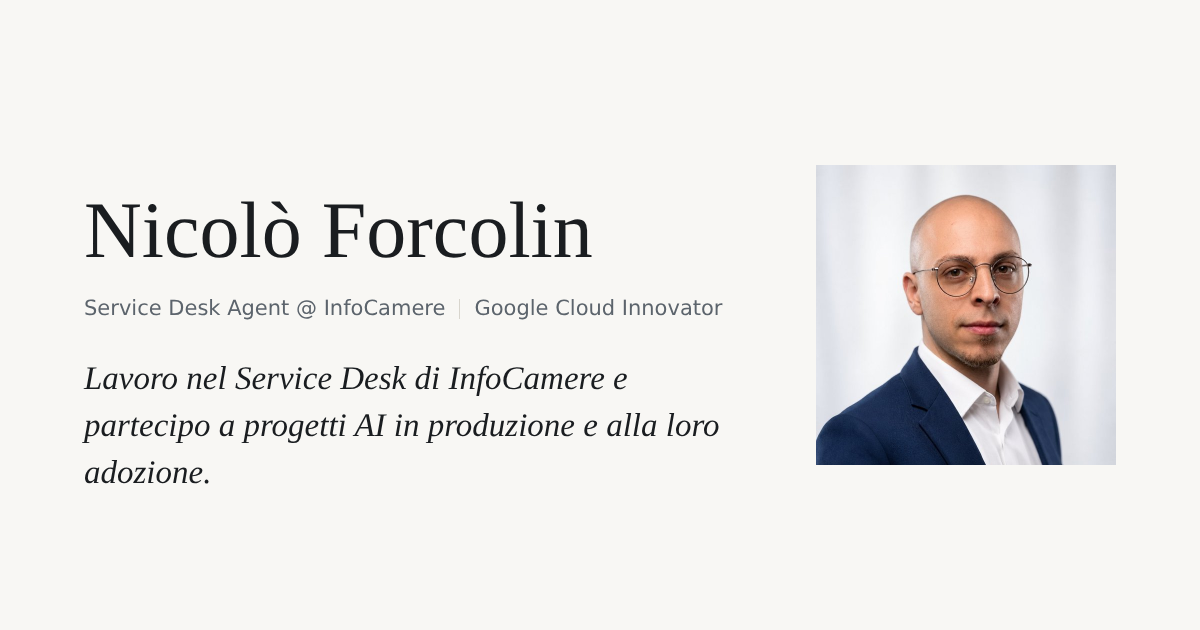
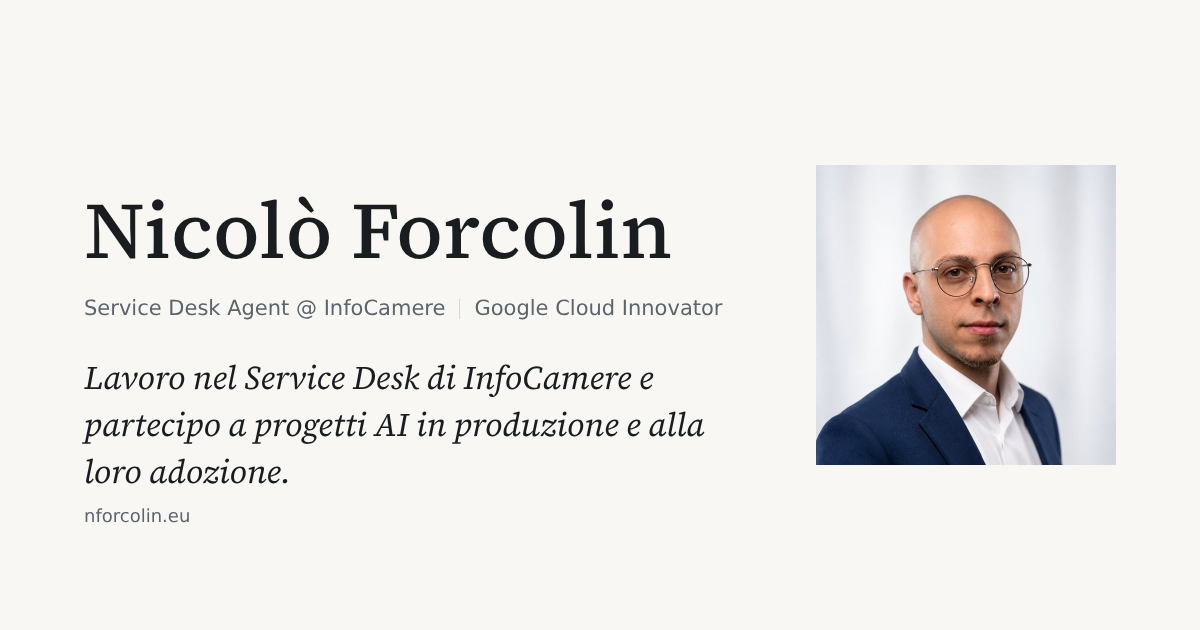
Etichette in italiano, og-image con Source Serif e footer (#270)

diff --git a/index.html b/index.html
@@ -94,7 +94,7 @@
         <a href="#casi-studio" data-i18n="sec_work_title">Progetto in produzione</a>
         <a href="#adozione" data-i18n="sec_adoption_title">AI in produzione e adozione</a>
         <a href="#sintesi" data-i18n="sec_results_title">Risultati</a>
-        <a href="#local-ai" data-i18n="sec_localai_title">Local AI</a>
+        <a href="#local-ai" data-i18n="sec_localai_title">AI in locale</a>
         <a href="#percorso" data-i18n="sec_path_title">Percorso</a>
         <a href="#esperienze" data-i18n="sec_experiences">Iniziative</a>
         <a href="#badge" data-i18n="sec_badge">Credenziali</a>
@@ -145,8 +145,8 @@
   <h2 class="section-label rv" id="casi-studio"><span data-i18n="sec_work_title">Progetto in produzione</span></h2>
   <div class="work-grid rv">
     <div class="work-card">
-      <span class="work-meta live" data-i18n="c1_status">Production · 2026</span>
-      <h3 class="work-title" id="case-rag" data-i18n="case1_title">Enterprise Knowledge Retrieval</h3>
+      <span class="work-meta live" data-i18n="c1_status">In produzione · 2026</span>
+      <h3 class="work-title" id="case-rag" data-i18n="case1_title">Ricerca nella conoscenza aziendale</h3>
       <p class="case-block-label" data-i18n="case_impact_label">Impatto</p>
       <p class="work-context" data-i18n="c1_impact">Documentazione aziendale e storico Jira si consultavano separatamente. Con i due RAG e la loro unificazione, ricostruire il contesto di una richiesta operativa è più semplice.</p>
       <p class="work-summary" data-i18n="c1_summary">Da un'idea sviluppata insieme al mio Responsabile, ho realizzato due sistemi RAG in produzione per la documentazione aziendale e lo storico Jira. Li ho poi unificati in un progetto più ampio, integrando ulteriori fonti di diversa provenienza.</p>
@@ -193,7 +193,7 @@
             <section class="case-block" aria-labelledby="c1-focus">
               <h4 class="case-block-label" id="c1-focus" tabindex="-1" data-i18n="case_focus_label">Focus</h4>
   <div class="metarow">
-    <span class="metachip">Enterprise AI</span>
+    <span class="metachip">AI aziendale</span>
     <span class="metachip">RAG</span>
     <span class="metachip">Systems Integration</span>
     <span class="metachip">Knowledge Management</span>
@@ -203,7 +203,7 @@
             <nav class="related-reading" aria-label="Contenuti collegati" data-i18n-aria="related_label">
               <p class="case-block-label" data-i18n="related_label">Contenuti collegati</p>
               <a href="#adozione" data-i18n="sec_adoption_title">AI in produzione e adozione</a>
-              <a href="#local-ai" data-i18n="sec_localai_title">Local AI</a>
+              <a href="#local-ai" data-i18n="sec_localai_title">AI in locale</a>
             </nav>
             <button class="work-link reader-close" type="button" data-reader-close="c1Details" data-i18n="work_close">Chiudi il progetto</button>
           </div>
@@ -232,7 +232,7 @@
     </div>
     <div class="stat" aria-labelledby="p1k">
       <p class="v"><span>2+1</span></p>
-      <span class="k" id="p1k" data-i18n="stat2_label">AI Advisory</span>
+      <span class="k" id="p1k" data-i18n="stat2_label">Consulenza AI</span>
       <p class="d" data-i18n="stat2_desc">Advisory AI per due business unit interne e un CEO.</p>
       <a class="lnk" href="#percorso" data-i18n="stat2_link">Vedi il percorso</a>
     </div>
@@ -244,17 +244,17 @@
     </div>
   </div>
 
-  <h2 class="section-label rv" id="local-ai"><span data-i18n="sec_localai_title">Local AI</span></h2>
+  <h2 class="section-label rv" id="local-ai"><span data-i18n="sec_localai_title">AI in locale</span></h2>
   <div class="work-grid rv">
     <div class="work-card">
       <span class="work-meta explore" data-i18n="c2_status">Exploration · Mag – Giu 2026</span>
-      <h3 class="work-title" id="case-local" data-i18n="case2_title">Local AI for Sensitive Data Environments</h3>
+      <h3 class="work-title" id="case-local" data-i18n="case2_title">AI in locale per dati sensibili</h3>
       <p class="work-summary" data-i18n="c2_summary">Ho valutato l’AI su dati sensibili con modelli in locale, tra dataset, adattamenti e demo.</p>
 <div class="case-contribution"><p class="case-block-label" data-i18n="contribution_label">Il mio contributo</p><p class="work-summary" data-i18n="c2_contribution">Ho fatto il fine-tuning dei modelli, li ho portati in locale e ho costruito le demo.</p></div>
       <div class="work-chips">
-        <span class="metachip">Local AI</span>
+        <span class="metachip">AI in locale</span>
         <span class="metachip">Data Protection</span>
-        <span class="metachip">AI Governance</span>
+        <span class="metachip">Governance AI</span>
       </div>
       <p class="work-context" data-i18n="c2_map_prose">Le demo usano dataset controllati e modelli eseguiti su infrastruttura locale.</p>
       <div class="case-actions"><button class="work-link" type="button" data-copy-case="c2Details" data-i18n="copy_case">Copia link al progetto</button><span class="copy-feedback" role="status" aria-live="polite"></span></div>
@@ -286,7 +286,7 @@
     <span class="metachip">Infrastructure control</span>
     <span class="metachip">Provider dependency</span>
     <span class="metachip">Operational costs</span>
-    <span class="metachip">AI governance</span>
+    <span class="metachip">Governance AI</span>
   </div>
 
             </section>
@@ -347,7 +347,7 @@
   <div class="experience-grid rv">
     <div class="experience-card">
       <div class="job-overline"><span data-i18n="date_dabo">2026</span><span class="education-tag" data-i18n="dabo_tag">Advisory esterna</span></div>
-      <div class="job-title" data-i18n="dabo_title">DABO · Advisory e candidatura internazionale</div>
+      <div class="job-title" data-i18n="dabo_title">DABO · Consulenza e candidatura internazionale</div>
       <div class="job-supp" data-i18n="dabo_desc">Ho fornito advisory al CEO di DABO su temi AI. Sono stato nel team SCWL a “Sprint Forward”, a Shangcheng, in Cina. Il team non è stato selezionato per la finale del 9 settembre.</div>
     </div>
     <div class="experience-card">
@@ -356,12 +356,12 @@
       <div class="job-supp" data-i18n="politica_desc">Partecipante all’edizione 2026 del programma di formazione politica di Italia Viva, su affari europei, istituzioni, economia, tecnologia e politiche pubbliche.</div>
     </div>
     <div class="experience-card">
-      <div class="job-overline"><span data-i18n="date_pizz">30 settembre 2026</span><span class="education-tag" data-i18n="pizz_tag">Networking</span></div>
+      <div class="job-overline"><span data-i18n="date_pizz">30 settembre 2026</span><span class="education-tag" data-i18n="pizz_tag">Rete professionale</span></div>
       <div class="job-title" data-i18n="pizz_title">Pizz'n'Meet, Padova</div>
       <div class="job-supp" data-i18n="pizz_desc">Serata di networking con professionisti di settori diversi: ci si presenta, si raccontano le proprie attività e si ascoltano esperienze lontane dalla propria. Guidata da una Pizz'n'Meet Ambassador. Sono tornato con nuovi contatti.</div>
     </div>
     <div class="experience-card">
-      <div class="job-overline"><span data-i18n="date_club">2026</span><span class="education-tag" data-i18n="club_tag">Community & affiliazioni</span></div>
+      <div class="job-overline"><span data-i18n="date_club">2026</span><span class="education-tag" data-i18n="club_tag">Community e affiliazioni</span></div>
       <div class="job-title"><a href="https://uominigentili.fimelato.com/club/" target="_blank" rel="noopener">Club degli Uomini Gentili</a></div>
       <div class="job-supp" data-i18n="club_desc">Community professionale dedicata a relazioni rispettose e a una leadership gentile.</div>
     </div>
@@ -370,13 +370,13 @@
   <h2 class="section-label rv" id="badge"><span data-i18n="sec_badge">Credenziali</span></h2>
 <div class="credential-list rv">
   <a class="credential-row" href="https://www.skills.google/public_profiles/49638d7b-3f49-4712-b70f-f85f5e239519" target="_blank" rel="noopener">
-    <span class="credential-icon" aria-hidden="true">G</span><span class="credential-copy"><span class="credential-title" data-i18n="badge1_title">Gemini Enterprise Agent Ready</span><span class="credential-meta" data-i18n="badge1_meta">Credential · 2026</span></span><span class="credential-arrow" aria-hidden="true">&gt;</span><span class="visually-hidden" data-i18n="new_tab_hint"> (si apre in una nuova scheda)</span>
+    <span class="credential-icon" aria-hidden="true">G</span><span class="credential-copy"><span class="credential-title" data-i18n="badge1_title">Gemini Enterprise Agent Ready</span><span class="credential-meta" data-i18n="badge1_meta">Credenziale · 2026</span></span><span class="credential-arrow" aria-hidden="true">&gt;</span><span class="visually-hidden" data-i18n="new_tab_hint"> (si apre in una nuova scheda)</span>
   </a>
   <a class="credential-row" href="https://www.skills.google/public_profiles/49638d7b-3f49-4712-b70f-f85f5e239519" target="_blank" rel="noopener">
-    <span class="credential-icon" aria-hidden="true">G</span><span class="credential-copy"><span class="credential-title" data-i18n="badge3_title">Google Developer Program, Premium Tier</span><span class="credential-meta" data-i18n="badge3_meta">Program status · 2026</span></span><span class="credential-arrow" aria-hidden="true">&gt;</span><span class="visually-hidden" data-i18n="new_tab_hint"> (si apre in una nuova scheda)</span>
+    <span class="credential-icon" aria-hidden="true">G</span><span class="credential-copy"><span class="credential-title" data-i18n="badge3_title">Google Developer Program, Premium Tier</span><span class="credential-meta" data-i18n="badge3_meta">Stato del programma · 2026</span></span><span class="credential-arrow" aria-hidden="true">&gt;</span><span class="visually-hidden" data-i18n="new_tab_hint"> (si apre in una nuova scheda)</span>
   </a>
   <a class="credential-row" href="https://www.skills.google/public_profiles/49638d7b-3f49-4712-b70f-f85f5e239519" target="_blank" rel="noopener">
-    <span class="credential-icon" aria-hidden="true">G</span><span class="credential-copy"><span class="credential-title" data-i18n="badge2_title">Google Cloud Innovator</span><span class="credential-meta" data-i18n="badge2_meta">Community program · 2025</span></span><span class="credential-arrow" aria-hidden="true">&gt;</span><span class="visually-hidden" data-i18n="new_tab_hint"> (si apre in una nuova scheda)</span>
+    <span class="credential-icon" aria-hidden="true">G</span><span class="credential-copy"><span class="credential-title" data-i18n="badge2_title">Google Cloud Innovator</span><span class="credential-meta" data-i18n="badge2_meta">Programma community · 2025</span></span><span class="credential-arrow" aria-hidden="true">&gt;</span><span class="visually-hidden" data-i18n="new_tab_hint"> (si apre in una nuova scheda)</span>
   </a>
 </div>
 

diff --git a/script.js b/script.js
@@ -39,21 +39,21 @@
       sec_work_title:"Progetto in produzione",
       sec_adoption_title:"AI in produzione e adozione",
       adoption_body:"Confronto i progetti AI con altri uffici e raccolgo feedback sulle soluzioni in uso. Le richieste riguardano fonti di dati, limiti alle risposte non fondate e una base di conoscenza condivisa tra uffici. Da qui derivano le priorità.",
-      sec_localai_title:"Local AI",
+      sec_localai_title:"AI in locale",
       sec_path_title:"Percorso",
       proof_label:"Risultati",
       stat1_label:"Progetto in produzione", stat1_desc:"Ricerca su fonti aziendali diverse, nata da due sistemi RAG poi unificati.", stat1_link:"Vedi i progetti",
-      stat2_label:"AI Advisory", stat2_desc:"Advisory AI per due business unit interne e un CEO.", stat2_link:"Vedi il percorso",
+      stat2_label:"Consulenza AI", stat2_desc:"Advisory AI per due business unit interne e un CEO.", stat2_link:"Vedi il percorso",
       stat3_label:"Formazione AI", stat3_desc:"Cinque programmi di formazione sull’AI operativa.", stat3_link:"Vedi il percorso",
       sec_lavori:"Progetti",
       date_club:"2026",
-      club_tag:"Community & affiliazioni", club_desc:"Community professionale dedicata a relazioni rispettose e a una leadership gentile.",
+      club_tag:"Community e affiliazioni", club_desc:"Community professionale dedicata a relazioni rispettose e a una leadership gentile.",
       work_view:"Vedi il progetto",
       c1_summary:"Da un'idea sviluppata insieme al mio Responsabile, ho realizzato due sistemi RAG in produzione per la documentazione aziendale e lo storico Jira. Li ho poi unificati in un progetto più ampio, integrando ulteriori fonti di diversa provenienza.",
       c2_summary:"Ho valutato l’AI su dati sensibili con modelli in locale, tra dataset, adattamenti e demo.",
       case_problem_label:"Problema", case_solution_label:"Soluzione", case_approach_label:"Approccio", case_impact_label:"Impatto", case_responsibility_label:"Responsabilità", case_learning_label:"Cosa ho imparato", case_focus_label:"Focus", case_stack_label:"Stack",
-      case1_title:"Enterprise Knowledge Retrieval",
-      c1_status:"Production · 2026",
+      case1_title:"Ricerca nella conoscenza aziendale",
+      c1_status:"In produzione · 2026",
       c1_problem:"La conoscenza aziendale c’è, ma è frammentata. Documenti, procedure, manuali e ticket hanno informazioni utili sparse tra fonti diverse. Per rispondere a una richiesta bisogna trovarle e ricostruirne il contesto a mano.",
       c1_solution_1:"Con il mio Responsabile ho definito le esigenze operative. Ne sono nati due sistemi RAG, che ho implementato e messo in produzione.",
       c1_solution_2:"Il primo rende interrogabile la documentazione aziendale, anche per la comunicazione verso middle e top management. Il secondo rende interrogabile lo storico Jira, per il team di lavoro e per Incident & Problem Management.",
@@ -61,7 +61,7 @@
       c1_impact:"Documentazione aziendale e storico Jira si consultavano separatamente. Con i due RAG e la loro unificazione, ricostruire il contesto di una richiesta operativa è più semplice.",
       c1_responsibility:"Ho seguito il progetto dalla definizione delle esigenze con il mio Responsabile fino alla messa in produzione dei due RAG. Poi ne ho curato l’unificazione e l’estensione ad altre fonti, insieme al manuale per i diversi gruppi di utenti.",
       c1_learning:"Dopo il rilascio, alcuni utenti continuavano a cercare a mano. Sono emersi rallentamenti e lacune nei dati: un modello funzionante non bastava. Ho lavorato sulla documentazione operativa e parlando direttamente con gli utenti. Prima di ampliare un RAG servono fonti affidabili e istruzioni chiare sul suo uso.",
-      case2_title:"Local AI for Sensitive Data Environments",
+      case2_title:"AI in locale per dati sensibili",
       c2_status:"Exploration · Mag – Giu 2026",
       c2_problem:"Capire come usare l’AI con dati sensibili, senza affidare dati e infrastruttura a provider esterni.",
       c2_solution:"Ho provato modelli in esecuzione locale, con Qwen, Gemma e Ollama. Ho preparato i dataset e messo in piedi l’esecuzione in locale.",
@@ -75,17 +75,17 @@
       job_generali:"Consulente assicurativo, in contatto diretto con il cliente in un settore molto regolamentato.",
       date_dabo:"2026",
       dabo_tag:"Advisory esterna",
-      dabo_title:"DABO · Advisory e candidatura internazionale",
+      dabo_title:"DABO · Consulenza e candidatura internazionale",
       dabo_desc:"Ho fornito advisory al CEO di DABO su temi AI. Sono stato nel team SCWL a “Sprint Forward”, a Shangcheng, in Cina. Il team non è stato selezionato per la finale del 9 settembre.",
       date_politica:"2026",
       politica_tag:"Formazione politica",
       politica_title:"Meritare l'Europa, Scuola di Formazione Politica, Italia Viva",
       politica_desc:"Partecipante all’edizione 2026 del programma di formazione politica di Italia Viva, su affari europei, istituzioni, economia, tecnologia e politiche pubbliche.",
-      date_pizz:"30 settembre 2026", pizz_tag:"Networking", pizz_title:"Pizz'n'Meet, Padova", pizz_desc:"Serata di networking con professionisti di settori diversi: ci si presenta, si raccontano le proprie attività e si ascoltano esperienze lontane dalla propria. Guidata da una Pizz'n'Meet Ambassador. Sono tornato con nuovi contatti.",
+      date_pizz:"30 settembre 2026", pizz_tag:"Rete professionale", pizz_title:"Pizz'n'Meet, Padova", pizz_desc:"Serata di networking con professionisti di settori diversi: ci si presenta, si raccontano le proprie attività e si ascoltano esperienze lontane dalla propria. Guidata da una Pizz'n'Meet Ambassador. Sono tornato con nuovi contatti.",
       sec_badge:"Credenziali",
-      badge1_title:"Gemini Enterprise Agent Ready", badge1_meta:"Credential · 2026",
-      badge2_title:"Google Cloud Innovator", badge2_meta:"Community program · 2025",
-      badge3_title:"Google Developer Program, Premium Tier", badge3_meta:"Program status · 2026",
+      badge1_title:"Gemini Enterprise Agent Ready", badge1_meta:"Credenziale · 2026",
+      badge2_title:"Google Cloud Innovator", badge2_meta:"Programma community · 2025",
+      badge3_title:"Google Developer Program, Premium Tier", badge3_meta:"Stato del programma · 2026",
       nav_main_label:"Navigazione principale", theme_toggle_label:"Cambia tema", hero_proof_label:"Profilo",
       hero_proof1:"Service Desk Agent @ InfoCamere", hero_proof3:"Google Cloud Innovator",
     },
